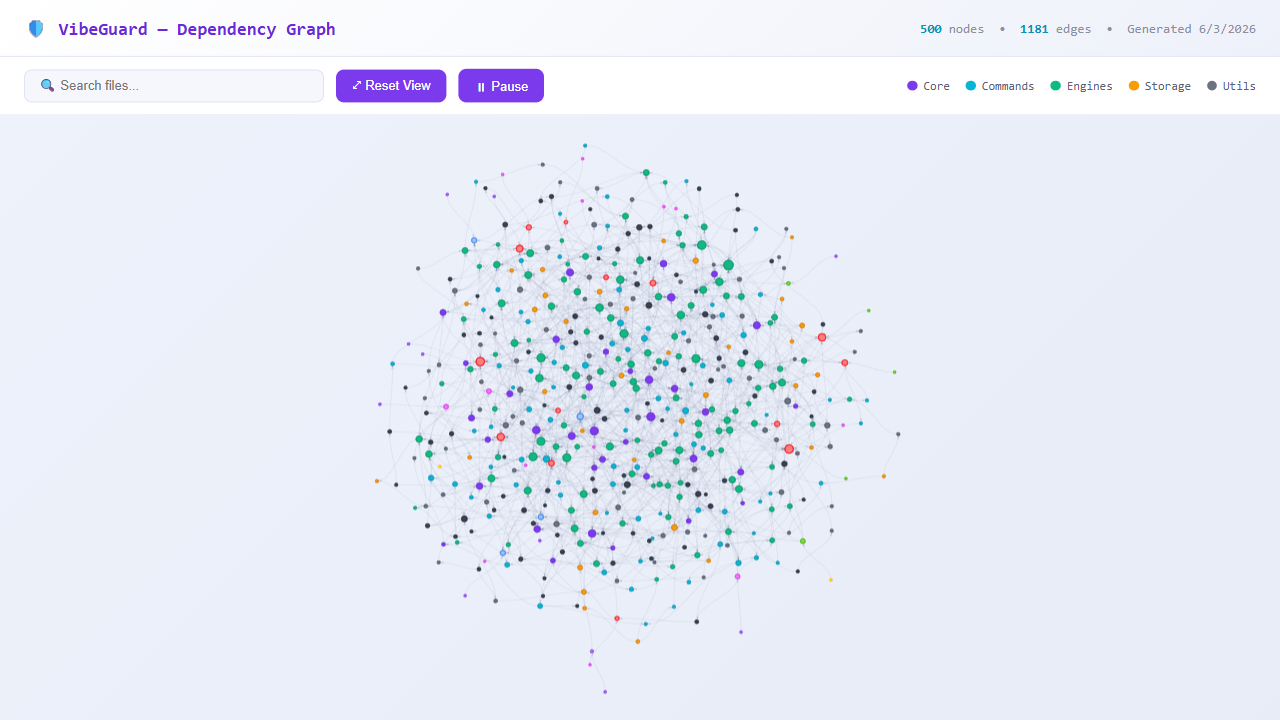
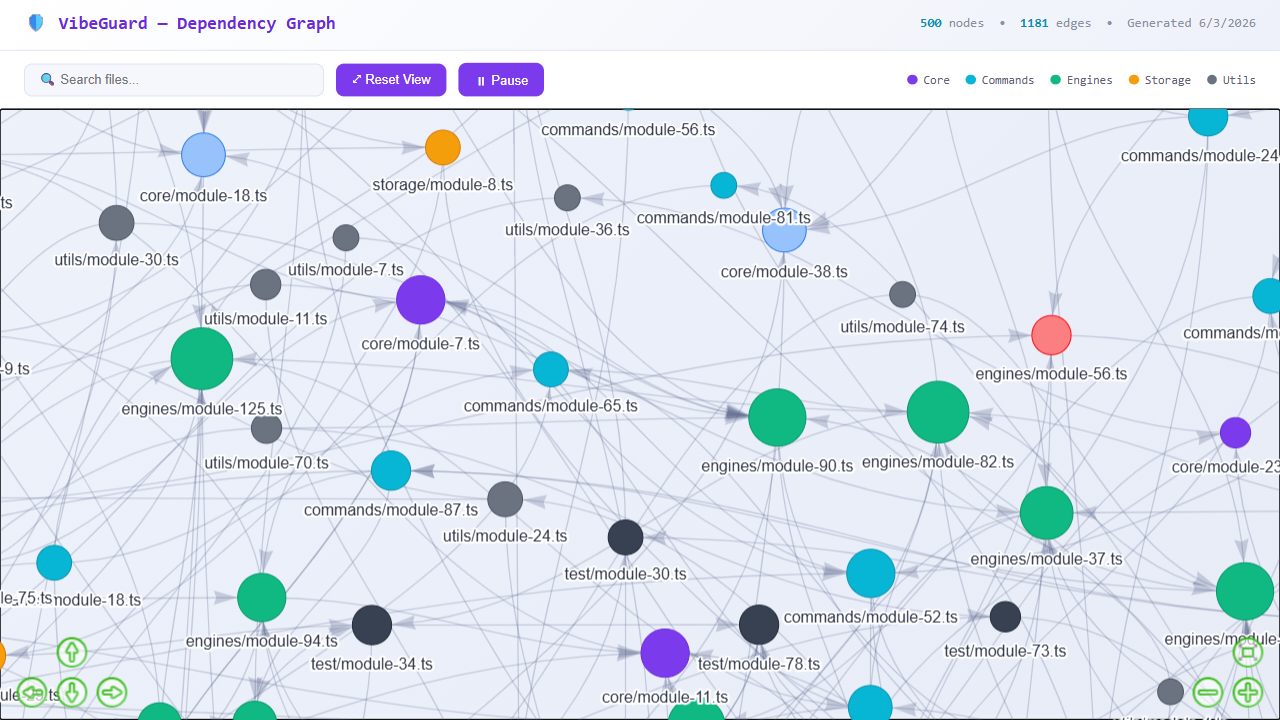
fix(graph): enable map pan/drag, replace hover with click-to-show file links
- interaction: dragView + dragNodes + nav buttons so tap-hold pans the map

- click a node shows a pinned panel listing its imports + dependents

- removed hover highlight per UX feedback; refreshed 500-node demo render

diff --git a/docs/assets/graph-demo.html b/docs/assets/graph-demo.html
@@ -96,18 +96,41 @@
     #graph { width: 100%; height: calc(100vh - 110px); }
     #tooltip {
       position: absolute;
+      top: 120px;
+      right: 16px;
       background: #ffffff;
       border: 1px solid #d8def0;
-      border-radius: 8px;
-      padding: 12px;
+      border-radius: 10px;
+      padding: 14px 16px;
       font-size: 12px;
       line-height: 1.5;
       color: #2b3245;
       display: none;
       z-index: 100;
-      max-width: 300px;
+      width: 320px;
+      max-height: calc(100vh - 160px);
+      overflow-y: auto;
       box-shadow: 0 6px 24px rgba(80, 90, 130, 0.18);
     }
+    #tooltip .lp-title {
+      font-weight: bold;
+      color: #6d28d9;
+      word-break: break-all;
+      margin-bottom: 8px;
+      padding-bottom: 8px;
+      border-bottom: 1px solid #eef1fa;
+    }
+    #tooltip .lp-h {
+      font-weight: bold;
+      color: #0891b2;
+      margin: 10px 0 4px;
+    }
+    #tooltip .lp-i {
+      color: #4b5563;
+      word-break: break-all;
+      padding: 1px 0 1px 10px;
+    }
+    #tooltip .lp-m { color: #9ca3af; font-style: italic; padding-left: 10px; }
   </style>
 </head>
 <body>
@@ -167,7 +190,14 @@
         forceAtlas2Based: { gravitationalConstant: -80, springLength: 120 },
         stabilization: { iterations: 200 },
       },
-      interaction: { hover: true, tooltipDelay: 200, zoomView: true },
+      interaction: {
+        hover: false,
+        dragView: true,      // click/tap-hold on empty space pans the whole map
+        dragNodes: true,     // drag an individual node to reposition it
+        zoomView: true,
+        navigationButtons: true,
+        keyboard: { enabled: true, bindToWindow: false },
+      },
       layout: { improvedLayout: true },
     });
 
@@ -203,11 +233,41 @@
       setNodeOpacity(() => true);
     }
 
+    // Split a node's connections into outgoing (imports) and incoming (dependents)
+    // using the edge list, so a click can list the actual linked files.
+    function linkedFiles(focusId) {
+      const imports = [];
+      const dependents = [];
+      for (const e of edgesData) {
+        if (e.from === focusId) imports.push(e.to);
+        else if (e.to === focusId) dependents.push(e.from);
+      }
+      return { imports, dependents };
+    }
+
+    // Pinned info panel showing the clicked file and the files it links to.
+    const panel = document.getElementById('tooltip');
+    function showLinksPanel(focusId) {
+      const { imports, dependents } = linkedFiles(focusId);
+      const list = (label, arr) => arr.length
+        ? '<div class="lp-h">' + label + ' (' + arr.length + ')</div>' +
+          arr.slice(0, 30).map(f => '<div class="lp-i">' + f + '</div>').join('') +
+          (arr.length > 30 ? '<div class="lp-m">… and ' + (arr.length - 30) + ' more</div>' : '')
+        : '<div class="lp-h">' + label + ' (0)</div><div class="lp-m">none</div>';
+      panel.innerHTML =
+        '<div class="lp-title">' + focusId + '</div>' +
+        list('→ Imports', imports) +
+        list('← Dependents', dependents);
+      panel.style.display = 'block';
+    }
+    function hideLinksPanel() { panel.style.display = 'none'; }
+
     // Search
     document.getElementById('search').addEventListener('input', function(e) {
       const query = e.target.value.toLowerCase();
       if (!query) {
         restoreOpacity();
+        hideLinksPanel();
         return;
       }
       setNodeOpacity(n => n.id.toLowerCase().includes(query) || n.label.toLowerCase().includes(query));
@@ -217,20 +277,18 @@
       }
     });
 
-    // Click to highlight connections
+    // Click a node → highlight its connections AND list the linked files.
+    // Click empty space → clear everything.
     network.on('click', function(params) {
       if (params.nodes.length > 0) {
-        highlightConnections(params.nodes[0]);
+        const id = params.nodes[0];
+        highlightConnections(id);
+        showLinksPanel(id);
       } else {
         restoreOpacity();
+        hideLinksPanel();
       }
     });
-
-    // Hover to highlight which files are linked (dim the rest); restore on blur.
-    network.on('hoverNode', function(params) {
-      highlightConnections(params.node);
-    });
-    network.on('blurNode', restoreOpacity);
   </script>
 </body>
 </html>

diff --git a/src/engines/html-graph-generator.ts b/src/engines/html-graph-generator.ts
@@ -179,18 +179,41 @@ function buildHTML(
     #graph { width: 100%; height: calc(100vh - 110px); }
     #tooltip {
       position: absolute;
+      top: 120px;
+      right: 16px;
       background: #ffffff;
       border: 1px solid #d8def0;
-      border-radius: 8px;
-      padding: 12px;
+      border-radius: 10px;
+      padding: 14px 16px;
       font-size: 12px;
       line-height: 1.5;
       color: #2b3245;
       display: none;
       z-index: 100;
-      max-width: 300px;
+      width: 320px;
+      max-height: calc(100vh - 160px);
+      overflow-y: auto;
       box-shadow: 0 6px 24px rgba(80, 90, 130, 0.18);
     }
+    #tooltip .lp-title {
+      font-weight: bold;
+      color: #6d28d9;
+      word-break: break-all;
+      margin-bottom: 8px;
+      padding-bottom: 8px;
+      border-bottom: 1px solid #eef1fa;
+    }
+    #tooltip .lp-h {
+      font-weight: bold;
+      color: #0891b2;
+      margin: 10px 0 4px;
+    }
+    #tooltip .lp-i {
+      color: #4b5563;
+      word-break: break-all;
+      padding: 1px 0 1px 10px;
+    }
+    #tooltip .lp-m { color: #9ca3af; font-style: italic; padding-left: 10px; }
   </style>
 </head>
 <body>
@@ -250,7 +273,14 @@ function buildHTML(
         forceAtlas2Based: { gravitationalConstant: -80, springLength: 120 },
         stabilization: { iterations: 200 },
       },
-      interaction: { hover: true, tooltipDelay: 200, zoomView: true },
+      interaction: {
+        hover: false,
+        dragView: true,      // click/tap-hold on empty space pans the whole map
+        dragNodes: true,     // drag an individual node to reposition it
+        zoomView: true,
+        navigationButtons: true,
+        keyboard: { enabled: true, bindToWindow: false },
+      },
       layout: { improvedLayout: true },
     });
 
@@ -286,11 +316,41 @@ function buildHTML(
       setNodeOpacity(() => true);
     }
 
+    // Split a node's connections into outgoing (imports) and incoming (dependents)
+    // using the edge list, so a click can list the actual linked files.
+    function linkedFiles(focusId) {
+      const imports = [];
+      const dependents = [];
+      for (const e of edgesData) {
+        if (e.from === focusId) imports.push(e.to);
+        else if (e.to === focusId) dependents.push(e.from);
+      }
+      return { imports, dependents };
+    }
+
+    // Pinned info panel showing the clicked file and the files it links to.
+    const panel = document.getElementById('tooltip');
+    function showLinksPanel(focusId) {
+      const { imports, dependents } = linkedFiles(focusId);
+      const list = (label, arr) => arr.length
+        ? '<div class="lp-h">' + label + ' (' + arr.length + ')</div>' +
+          arr.slice(0, 30).map(f => '<div class="lp-i">' + f + '</div>').join('') +
+          (arr.length > 30 ? '<div class="lp-m">… and ' + (arr.length - 30) + ' more</div>' : '')
+        : '<div class="lp-h">' + label + ' (0)</div><div class="lp-m">none</div>';
+      panel.innerHTML =
+        '<div class="lp-title">' + focusId + '</div>' +
+        list('→ Imports', imports) +
+        list('← Dependents', dependents);
+      panel.style.display = 'block';
+    }
+    function hideLinksPanel() { panel.style.display = 'none'; }
+
     // Search
     document.getElementById('search').addEventListener('input', function(e) {
       const query = e.target.value.toLowerCase();
       if (!query) {
         restoreOpacity();
+        hideLinksPanel();
         return;
       }
       setNodeOpacity(n => n.id.toLowerCase().includes(query) || n.label.toLowerCase().includes(query));
@@ -300,20 +360,18 @@ function buildHTML(
       }
     });
 
-    // Click to highlight connections
+    // Click a node → highlight its connections AND list the linked files.
+    // Click empty space → clear everything.
     network.on('click', function(params) {
       if (params.nodes.length > 0) {
-        highlightConnections(params.nodes[0]);
+        const id = params.nodes[0];
+        highlightConnections(id);
+        showLinksPanel(id);
       } else {
         restoreOpacity();
+        hideLinksPanel();
       }
     });
-
-    // Hover to highlight which files are linked (dim the rest); restore on blur.
-    network.on('hoverNode', function(params) {
-      highlightConnections(params.node);
-    });
-    network.on('blurNode', restoreOpacity);
   </script>
 </body>
 </html>`;

diff --git a/test/unit/html-graph-generator.test.ts b/test/unit/html-graph-generator.test.ts
@@ -43,12 +43,22 @@ describe('generateHTMLGraph (vis-network 2D)', () => {
     expect(html).not.toContain('3d-force-graph');
   });
 
-  it('highlights connected nodes on hover and on click, restoring on blur', async () => {
+  it('shows file links on click (panel) and no longer uses hover highlighting', async () => {
     const html = await render();
     expect(html).toContain('getConnectedNodes');
-    expect(html).toContain("network.on('hoverNode'");
-    expect(html).toContain("network.on('blurNode'");
     expect(html).toContain("network.on('click'");
+    expect(html).toContain('showLinksPanel');
+    expect(html).toContain('linkedFiles');
+    // Hover highlight removed per UX request.
+    expect(html).not.toContain("network.on('hoverNode'");
+    expect(html).not.toContain("network.on('blurNode'");
+    expect(html).toContain('hover: false');
+  });
+
+  it('enables map panning and node dragging', async () => {
+    const html = await render();
+    expect(html).toContain('dragView: true');
+    expect(html).toContain('dragNodes: true');
   });
 
   it('has search and view controls including a Play/Pause toggle', async () => {